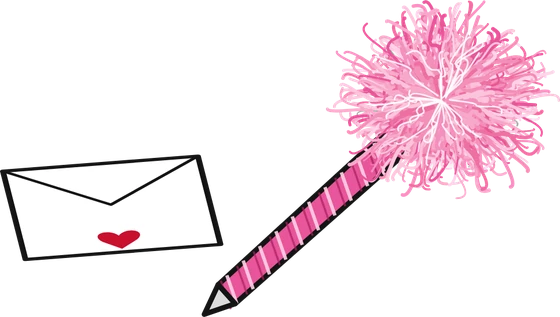
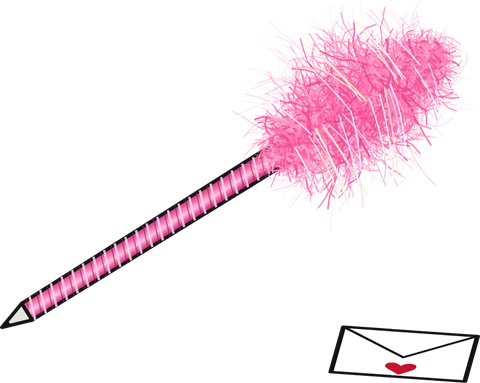
Smaller marabou pen; Spotify loads on request; privacy page
Claude-Session: https://claude.ai/code/session_01H8mUHYYn5LXshRq5LgGWXu

Changed region(s): [[0.0, 0.0, 1.0, 1.0], [0.6875, 0.8517, 1.0, 1.0], [0.0625, 0.5678, 0.1562, 0.6246]]

diff --git a/privacy.html b/privacy.html
@@ -1,0 +1,74 @@
+<!doctype html><html lang="en"><head><meta charset="utf-8"><meta name="viewport" content="width=device-width,initial-scale=1,viewport-fit=cover">
+<title>Privacy · Raissa Camargo</title>
+<meta name="description" content="How raissacamargo.com handles your information: no tracking cookies, privacy-friendly stats, and your rights under the LGPD and GDPR.">
+<link rel="canonical" href="https://raissacamargo.com/privacy.html">
+<meta property="og:type" content="website"><meta property="og:site_name" content="Raissa Camargo">
+<meta property="og:title" content="Privacy · Raissa Camargo"><meta property="og:description" content="How raissacamargo.com handles your information: no tracking cookies, privacy-friendly stats, and your rights under the LGPD and GDPR.">
+<meta property="og:url" content="https://raissacamargo.com/privacy.html"><meta property="og:image" content="https://raissacamargo.com/share-card.jpg">
+<meta property="og:image:width" content="1200"><meta property="og:image:height" content="630">
+<meta name="twitter:card" content="summary_large_image"><meta name="twitter:image" content="https://raissacamargo.com/share-card.jpg"><meta name="author" content="Raissa Camargo">
+<meta name="theme-color" content="#fde2ec">
+<link rel="icon" href="/favicon.ico" sizes="48x48"><link rel="icon" href="/favicon-32.png" type="image/png" sizes="32x32"><link rel="apple-touch-icon" href="/apple-touch-icon.png"><link rel="manifest" href="/site.webmanifest"><script defer src="https://cloud.umami.is/script.js" data-website-id="050e5cb9-ac41-4cd0-b8dd-d56ffa66f563" data-domains="raissacamargo.com,www.raissacamargo.com"></script><script type="application/ld+json">{"@context": "https://schema.org", "@type": "WebPage", "url": "https://raissacamargo.com/privacy.html", "author": {"@type": "Person", "name": "Raissa Camargo", "url": "https://raissacamargo.com/"}, "isPartOf": {"@type": "WebSite", "@id": "https://raissacamargo.com/#site"}}</script>
+<link rel="preconnect" href="https://fonts.googleapis.com">
+<link rel="stylesheet" href="https://fonts.googleapis.com/css2?family=Averia+Serif+Libre:ital,wght@0,400;0,700;1,400&display=swap">
+<style>
+/* A plain-spoken privacy note on a white sheet taped to the pink zine paper. */
+:root{--ink:#141414;--zine:#fde2ec;--hot:#c8102e;--muted:#5a4a50;--head:"Averia Serif Libre",Georgia,serif;color-scheme:light}
+*{box-sizing:border-box}
+html{background:var(--zine)}
+body{margin:0;min-height:100vh;color:var(--ink);font-family:var(--head);background:var(--zine);
+  padding:calc(24px + env(safe-area-inset-top,0px)) max(16px,env(safe-area-inset-right,0px)) calc(64px + env(safe-area-inset-bottom,0px)) max(16px,env(safe-area-inset-left,0px))}
+body::after{content:"";position:fixed;inset:0;z-index:0;pointer-events:none;background:url(img/texture-paper.webp) center/cover;opacity:.55;mix-blend-mode:multiply}
+.wrap{position:relative;z-index:1;max-width:720px;margin:0 auto}
+a{color:var(--hot);text-decoration-thickness:1.5px;text-underline-offset:2px}
+:focus-visible{outline:3px dashed var(--hot);outline-offset:3px}
+.top{margin-bottom:26px}
+.back{font-size:15px;color:#fff;background:var(--ink);padding:8px 16px 6px;text-decoration:none;transform:rotate(-1.5deg);box-shadow:3px 3px 0 var(--hot);display:inline-block}
+.back:hover{background:var(--hot);box-shadow:3px 3px 0 var(--ink)}
+.sheet{position:relative;background:#fff;padding:36px clamp(20px,5vw,48px) 30px;box-shadow:6px 8px 0 rgba(20,20,20,.16)}
+.sheet::before{content:"";position:absolute;top:-13px;left:50%;width:120px;height:26px;margin-left:-60px;background:rgba(185,210,236,.9);transform:rotate(-2deg)}
+h1{margin:0 0 6px;font-size:clamp(28px,4.4vw,38px);line-height:1.15;text-wrap:balance}
+.upd{margin:0 0 22px;font-size:13px;font-style:italic;color:var(--muted)}
+.lede{font-size:17px;line-height:1.55;margin:0 0 8px}
+h2{font-size:19px;margin:30px 0 8px;display:inline-block;background:var(--ink);color:#fff;padding:5px 12px 3px;transform:rotate(-1deg)}
+p,li{font-size:15.5px;line-height:1.6;max-width:62ch}
+.credit{max-width:none!important;position:relative;z-index:1}
+ul{padding-left:1.2em;margin:8px 0}
+li{margin:0 0 6px}
+li b{font-weight:700}
+.box{background:var(--zine);padding:14px 18px;margin-top:10px}
+@media (prefers-reduced-motion:reduce){h2,.back,.sheet::before{transform:none}}
+</style></head>
+<body><div class="wrap">
+<nav class="top"><a class="back" href="index.html">&larr; back to my room</a></nav>
+<article class="sheet">
+<h1>privacy, in plain words</h1>
+<p class="upd">last updated 17 november 2026</p>
+<p class="lede">this is my personal portfolio. i don&rsquo;t sell anything about you, i don&rsquo;t run ads, and there are no tracking cookies. here&rsquo;s exactly what happens with your information when you visit.</p>
+
+<h2>who&rsquo;s responsible</h2>
+<p>me, Raissa Camargo (Rai), a freelance graphic designer based in São Paulo, Brazil, also working as Someday Graphics. you can reach me any time at <a data-umami-event="email click" href="mailto:rai@raissacamargo.com">rai@raissacamargo.com</a>.</p>
+
+<h2>what i collect, and why</h2>
+<ul>
+  <li><b>when you use the hire form:</b> your name, email and whatever you tell me about your project. it&rsquo;s sent to my inbox through a form service called Web3Forms, so i can reply and talk about working together. i keep these emails as long as we&rsquo;re in touch or working on a project, and for my business records after that.</li>
+  <li><b>when you sign the guestbook:</b> the drawing you make, the name you give and your note. they&rsquo;re stored with Supabase, and i get an email letting me know. nothing appears on the site until i approve it; if i do, your drawing, name and note are shown publicly on the fridge. ones i don&rsquo;t approve are deleted.</li>
+  <li><b>visitor statistics:</b> i use Umami, a privacy-friendly analytics tool, to see things like which pages are visited, roughly which country visitors are in, what device or browser they use and which site sent them here. it doesn&rsquo;t use cookies, doesn&rsquo;t follow you across other websites and doesn&rsquo;t tell me who you are. the data is stored in the EU.</li>
+</ul>
+
+<h2>cookies &amp; storage</h2>
+<p>this site doesn&rsquo;t set any tracking or advertising cookies, so there&rsquo;s no cookie banner. your browser does keep a couple of tiny notes just so the site works (like which gallery tab you came from). they never leave your device.</p>
+<p>a few things load from other services when you use them:</p>
+<ul>
+  <li><b>my playlist</b> only loads Spotify when you press &ldquo;load the spotify player&rdquo;. Spotify may then set its own cookies.</li>
+  <li><b>videos</b> use YouTube&rsquo;s privacy-enhanced mode, which doesn&rsquo;t set cookies until you press play.</li>
+  <li><b>the fonts</b> come from Google Fonts, which means Google receives your IP address when the page loads.</li>
+  <li><b>the site is hosted on GitHub Pages</b>, which may log IP addresses for security.</li>
+</ul>
+
+<h2>your rights</h2>
+<p>under Brazil&rsquo;s LGPD, and the GDPR if you&rsquo;re in the UK or EU, you can ask me to see, correct or delete anything i hold about you, including taking your drawing off the fridge. just email <a data-umami-event="email click" href="mailto:rai@raissacamargo.com">rai@raissacamargo.com</a> and i&rsquo;ll sort it out as soon as i can. you can also complain to your local data protection authority (in Brazil, that&rsquo;s the ANPD).</p>
+
+<div class="box"><p style="margin:0">i never sell or share your details for marketing, and you won&rsquo;t be added to any mailing list. &#9825;</p></div>
+</article>
+</div><p class="credit" style="text-align:center;font-size:12px;letter-spacing:.04em;opacity:.6;margin:40px 0 28px;padding:0 16px">designed by raíssa camargo © 2026 · <a href="privacy.html" style="color:inherit">privacy</a></p><style>img,video{-webkit-user-drag:none;user-select:none;-webkit-user-select:none;-webkit-touch-callout:none}</style><script>(function(){var A="img,video,canvas,picture,figure,.pic,.fpic,.th,.poster,#scene,#lb";function no(e){if(e.target.closest&&e.target.closest(A))e.preventDefault()}document.addEventListener("contextmenu",no);document.addEventListener("dragstart",no)})()</script></body></html>

diff --git a/index.html b/index.html
@@ -265,11 +265,15 @@ body.night #moonGlow{--g:228,236,255;--f:.42;mix-blend-mode:screen;animation:moo
 #quick a.h{background:var(--ink);color:#fff;box-shadow:calc(var(--u)*3) calc(var(--u)*3) 0 var(--hot);transform:rotate(1.2deg)}
 #quick a:hover,#quick a:focus-visible{background:var(--hot);color:#fff}
 .obj:focus-visible,.spot:focus-visible{outline:calc(var(--u)*4) dashed var(--hot);outline-offset:calc(var(--u)*6)}
+#credit a{color:inherit;pointer-events:auto}
+.loadsp{font-family:var(--type);font-size:15px;color:#fff;background:#1db954;border:0;border-radius:999px;padding:9px 18px 8px;cursor:pointer;box-shadow:3px 3px 0 rgba(20,20,20,.25)}
+.loadsp:hover{background:#141414}
+.spnote{margin:6px 0 0;font-size:12px;font-style:italic;opacity:.7}
 </style>
 
 <div id="loading">opening the door&hellip;</div>
 <h1 class="sr">Raissa Camargo, freelance graphic designer for musicians and creatives</h1>
-<p id="credit">designed by ra&iacute;ssa camargo &copy; 2026</p>
+<p id="credit">designed by ra&iacute;ssa camargo &copy; 2026 &middot; <a href="privacy.html">privacy</a></p>
 <div id="viewport">
   <div id="scene">
     <div id="sky" class="abs" aria-hidden="true"><div class="stars"></div></div>
@@ -323,7 +327,7 @@ const OBJS=[
   {id:'selina',sec:'meow',label:'Selina',box:[1163,1054,1456,1203]},
   {id:'london',sec:'meow',label:'London',box:[755,1518,1091,1713]},
   {id:'moon',sec:'night',box:[1125,398,1243,528],still:true},
-  {id:'guestbook',sec:'guestbook',label:'sign my guestbook',box:[1170,1606,1420,1748]},
+  {id:'guestbook',sec:'guestbook',label:'sign my guestbook',box:[1230,1630,1382,1752]},
   {id:'logo',sec:'home',label:'Home',box:[51,289,596,552]},
 ];
 // areas still inside the background drawing (until they get their own layers)
@@ -517,8 +521,14 @@ function openWin(sec){if(sec==='guestbook'){location.href='paintbook.html';retur
   ransom(document.getElementById('wt'),s.label);document.getElementById('wp').textContent=s.body;
   const wl=document.getElementById('wlinks');wl.replaceChildren(...(s.links||[]).map(([t,u])=>{const a=document.createElement('a');a.href=u;a.target='_blank';a.rel='noopener';a.textContent=t;return a}));
   {const old=document.getElementById('wembed');if(old)old.remove();
-   if(s.embed&&/(^|\.)raissacamargo\.com$|(^|\.)somedaygraphics\.com$|netlify\.app$/.test(location.hostname)){const f=document.createElement('iframe');f.id='wembed';f.src=s.embed;f.title=s.label;f.allow='autoplay; clipboard-write; encrypted-media; fullscreen; picture-in-picture';
-     f.style.cssText='width:100%;height:152px;border:0;border-radius:12px;margin-top:14px;display:block';wl.parentNode.insertBefore(f,wl)}}
+   if(s.embed&&/(^|\.)raissacamargo\.com$|(^|\.)somedaygraphics\.com$|github\.io$/.test(location.hostname)){
+     // Spotify only loads when the visitor asks for it (it can set its own cookies)
+     const box=document.createElement('div');box.id='wembed';box.style.cssText='margin-top:14px';
+     const btn=document.createElement('button');btn.type='button';btn.className='loadsp';btn.textContent='▶ load the spotify player';
+     const small=document.createElement('p');small.className='spnote';small.textContent='this loads spotify, which may set its own cookies.';
+     btn.onclick=()=>{const f=document.createElement('iframe');f.src=s.embed;f.title=s.label;f.allow='autoplay; clipboard-write; encrypted-media; fullscreen; picture-in-picture';
+       f.style.cssText='width:100%;height:152px;border:0;border-radius:12px;display:block';box.replaceChildren(f);f.focus()};
+     box.append(btn,small);wl.parentNode.insertBefore(box,wl)}}
   const wi=document.getElementById('wimg');if(s.img){wi.src=s.img;wi.alt=s.label+' cover';wi.hidden=false}else wi.hidden=true;
   win.hidden=false;win.querySelector('.btn').focus()}
 function closeWin(){win.hidden=true;scene.style.transform='';scene.classList.remove('zoom');if(lastFocus&&lastFocus.focus)lastFocus.focus()}
@@ -542,7 +552,7 @@ menu.appendChild(mi('hire rai',()=>openWin('contact'),'hire'));
    b.onclick=()=>{T(night?'night mode':'day mode');if(document.body.classList.contains('night')!==night)toggleNight();syncModes()};return b};
  m.appendChild(mk(false,'day','<svg viewBox="0 0 24 24" aria-hidden="true"><circle cx="12" cy="12" r="4.2" fill="none" stroke="currentColor" stroke-width="1.8"/><g stroke="currentColor" stroke-width="1.8" stroke-linecap="round"><path d="M12 2.5v2.6M12 18.9v2.6M2.5 12h2.6M18.9 12h2.6M5.3 5.3l1.8 1.8M16.9 16.9l1.8 1.8M5.3 18.7l1.8-1.8M16.9 7.1l1.8-1.8"/></g></svg>'));
  m.appendChild(mk(true,'night','<svg viewBox="0 0 24 24" aria-hidden="true"><path d="M19.5 14.6A7.8 7.8 0 0 1 9.4 4.5a7.8 7.8 0 1 0 10.1 10.1z" fill="none" stroke="currentColor" stroke-width="1.8" stroke-linejoin="round"/></svg>'));
- menu.appendChild(m);const cr=document.createElement('p');cr.className='mcredit';cr.textContent='designed by ra\u00edssa camargo \u00a9 2026';menu.appendChild(cr)}
+ menu.appendChild(m);const cr=document.createElement('p');cr.className='mcredit';cr.innerHTML='designed by ra\u00edssa camargo \u00a9 2026 \u00b7 <a href="privacy.html" style="color:inherit">privacy</a>';menu.appendChild(cr)}
 function syncModes(){const n=document.body.classList.contains('night');menu.querySelectorAll('.mode').forEach((b,i)=>b.setAttribute('aria-pressed',String(i===1?n:!n)))}
 syncModes();new MutationObserver(syncModes).observe(document.body,{attributes:true,attributeFilter:['class']});
 function toggleMenu(open){open=open??menu.hidden;menu.hidden=!open;menuBtn.setAttribute('aria-expanded',open);

diff --git a/hire.html b/hire.html
@@ -123,7 +123,7 @@ button.go[disabled]{opacity:.6;cursor:wait}
         <div class="row"><label class="f"><span>deadline</span><input name="deadline" placeholder="e.g. before the march tour"></label><label class="f"><span>how did you find me?</span><input name="found" placeholder="instagram, a friend, a poster on a wall…"></label></div>
 
         <div class="send"><button class="go" type="submit" id="go">send it ♥</button><p class="err" id="err" role="alert"></p></div>
-        <p class="privacy">I&rsquo;ll only use your details to reply about your project. No mailing lists, never shared.</p>
+        <p class="privacy">I&rsquo;ll only use your details to reply about your project. No mailing lists, never shared. <a href="privacy.html" style="color:inherit">privacy</a></p>
       </form>
     </div>
   </div>
@@ -156,4 +156,4 @@ form.addEventListener('submit',async e=>{e.preventDefault();err.textContent='';
     document.getElementById('sheet').innerHTML=`<div class="thanks" role="status"><span class="big">got it${name?', '+name.replace(/[<>&"]/g,''):''}!</span><p>Your message is on its way to my inbox. I'll write back from rai@raissacamargo.com.</p>${LIVE?'':'<small>(this is the preview, so nothing was actually sent. the form goes live with the site.)</small>'}</div>`;
   }catch(x){go.disabled=false;go.textContent='send it ♥';err.innerHTML='Something went wrong. Email me at <a data-umami-event="email click" href="mailto:rai@raissacamargo.com">rai@raissacamargo.com</a> instead.'}
 });
-</script><p class="credit" style="text-align:center;font-size:12px;letter-spacing:.04em;opacity:.6;margin:40px 0 28px;padding:0 16px">designed by raíssa camargo © 2026</p><style>img,video{-webkit-user-drag:none;user-select:none;-webkit-user-select:none;-webkit-touch-callout:none}</style><script>(function(){var A="img,video,canvas,picture,figure,.pic,.fpic,.th,.poster,#scene,#lb";function no(e){if(e.target.closest&&e.target.closest(A))e.preventDefault()}document.addEventListener("contextmenu",no);document.addEventListener("dragstart",no)})()</script></body></html>
+</script><p class="credit" style="text-align:center;font-size:12px;letter-spacing:.04em;opacity:.6;margin:40px 0 28px;padding:0 16px">designed by raíssa camargo © 2026 · <a href="privacy.html" style="color:inherit">privacy</a></p><style>img,video{-webkit-user-drag:none;user-select:none;-webkit-user-select:none;-webkit-touch-callout:none}</style><script>(function(){var A="img,video,canvas,picture,figure,.pic,.fpic,.th,.poster,#scene,#lb";function no(e){if(e.target.closest&&e.target.closest(A))e.preventDefault()}document.addEventListener("contextmenu",no);document.addEventListener("dragstart",no)})()</script></body></html>

diff --git a/paintbook.html b/paintbook.html
@@ -157,7 +157,7 @@ input:focus{outline:none;border-color:var(--hot)}
     <p class="hp" aria-hidden="true" style="position:absolute;left:-9999px"><label>Leave this empty: <input name="bot-field" tabindex="-1" autocomplete="off"></label></p>
     <button class="go" id="go" type="submit">send my drawing &#9825;</button>
     <p class="err" id="err" role="alert"></p>
-    <p class="note">drawings go on the fridge once i&rsquo;ve seen them. your name, note and drawing will be public; nothing else is shown.</p>
+    <p class="note">drawings go on the fridge once i&rsquo;ve seen them. your name, note and drawing will be public; nothing else is shown. <a href="privacy.html" style="color:inherit">privacy</a></p>
   </form>
   <div class="thanks" id="thanks" hidden tabindex="-1"><b>thank you!! &#9825;</b>your drawing is on its way to me. keep an eye on the fridge!<br><button type="button" id="again">draw another one</button></div>
 </section>
@@ -265,4 +265,4 @@ $('#again').onclick=()=>{snap();blank();dirty=false;f.reset();f.hidden=false;$('
       fg.append(im,cap);W.appendChild(fg)})
   }catch(e){W.innerHTML='<p class="empty">couldn’t open the fridge right now. try again later!</p>'}})();
 </script>
-<p class="credit" style="text-align:center;font-size:12px;letter-spacing:.04em;opacity:.6;margin:40px 0 28px;padding:0 16px">designed by raíssa camargo © 2026</p><style>img,video{-webkit-user-drag:none;user-select:none;-webkit-user-select:none;-webkit-touch-callout:none}</style><script>(function(){var A="img,video,canvas,picture,figure,.pic,.fpic,.th,.poster,#scene,#lb";function no(e){if(e.target.closest&&e.target.closest(A))e.preventDefault()}document.addEventListener("contextmenu",no);document.addEventListener("dragstart",no)})()</script></body></html>
+<p class="credit" style="text-align:center;font-size:12px;letter-spacing:.04em;opacity:.6;margin:40px 0 28px;padding:0 16px">designed by raíssa camargo © 2026 · <a href="privacy.html" style="color:inherit">privacy</a></p><style>img,video{-webkit-user-drag:none;user-select:none;-webkit-user-select:none;-webkit-touch-callout:none}</style><script>(function(){var A="img,video,canvas,picture,figure,.pic,.fpic,.th,.poster,#scene,#lb";function no(e){if(e.target.closest&&e.target.closest(A))e.preventDefault()}document.addEventListener("contextmenu",no);document.addEventListener("dragstart",no)})()</script></body></html>

diff --git a/ben-barnes-promo-reels.html b/ben-barnes-promo-reels.html
@@ -274,4 +274,4 @@ lb.querySelector('.prev').onclick=()=>show(cur-1);lb.querySelector('.next').oncl
 lb.addEventListener('click',e=>{if(e.target===lb||e.target.tagName==='FIGURE')close()});
 addEventListener('keydown',e=>{if(lb.hidden)return;if(e.key==='Tab'){const f=[...lb.querySelectorAll('button')];const i=f.indexOf(document.activeElement);e.preventDefault();f[(i+(e.shiftKey?-1:1)+f.length)%f.length].focus();return}if(e.key==='Escape')close();if(e.key==='ArrowRight')show(cur+1);if(e.key==='ArrowLeft')show(cur-1)});
 let sx=null;lb.addEventListener('touchstart',e=>{sx=e.touches[0].clientX},{passive:true});lb.addEventListener('touchend',e=>{if(sx===null)return;const dx=e.changedTouches[0].clientX-sx;if(Math.abs(dx)>50)show(cur+(dx<0?1:-1));sx=null});
-</script><p class="credit" style="text-align:center;font-size:12px;letter-spacing:.04em;opacity:.6;margin:40px 0 28px;padding:0 16px">designed by raíssa camargo © 2026</p><style>img,video{-webkit-user-drag:none;user-select:none;-webkit-user-select:none;-webkit-touch-callout:none}</style><script>(function(){var A="img,video,canvas,picture,figure,.pic,.fpic,.th,.poster,#scene,#lb";function no(e){if(e.target.closest&&e.target.closest(A))e.preventDefault()}document.addEventListener("contextmenu",no);document.addEventListener("dragstart",no)})()</script></body></html>
+</script><p class="credit" style="text-align:center;font-size:12px;letter-spacing:.04em;opacity:.6;margin:40px 0 28px;padding:0 16px">designed by raíssa camargo © 2026 · <a href="privacy.html" style="color:inherit">privacy</a></p><style>img,video{-webkit-user-drag:none;user-select:none;-webkit-user-select:none;-webkit-touch-callout:none}</style><script>(function(){var A="img,video,canvas,picture,figure,.pic,.fpic,.th,.poster,#scene,#lb";function no(e){if(e.target.closest&&e.target.closest(A))e.preventDefault()}document.addEventListener("contextmenu",no);document.addEventListener("dragstart",no)})()</script></body></html>

diff --git a/ben-barnes-where-the-light-gets-in-deluxe.html b/ben-barnes-where-the-light-gets-in-deluxe.html
@@ -274,4 +274,4 @@ lb.querySelector('.prev').onclick=()=>show(cur-1);lb.querySelector('.next').oncl
 lb.addEventListener('click',e=>{if(e.target===lb||e.target.tagName==='FIGURE')close()});
 addEventListener('keydown',e=>{if(lb.hidden)return;if(e.key==='Tab'){const f=[...lb.querySelectorAll('button')];const i=f.indexOf(document.activeElement);e.preventDefault();f[(i+(e.shiftKey?-1:1)+f.length)%f.length].focus();return}if(e.key==='Escape')close();if(e.key==='ArrowRight')show(cur+1);if(e.key==='ArrowLeft')show(cur-1)});
 let sx=null;lb.addEventListener('touchstart',e=>{sx=e.touches[0].clientX},{passive:true});lb.addEventListener('touchend',e=>{if(sx===null)return;const dx=e.changedTouches[0].clientX-sx;if(Math.abs(dx)>50)show(cur+(dx<0?1:-1));sx=null});
-</script><p class="credit" style="text-align:center;font-size:12px;letter-spacing:.04em;opacity:.6;margin:40px 0 28px;padding:0 16px">designed by raíssa camargo © 2026</p><style>img,video{-webkit-user-drag:none;user-select:none;-webkit-user-select:none;-webkit-touch-callout:none}</style><script>(function(){var A="img,video,canvas,picture,figure,.pic,.fpic,.th,.poster,#scene,#lb";function no(e){if(e.target.closest&&e.target.closest(A))e.preventDefault()}document.addEventListener("contextmenu",no);document.addEventListener("dragstart",no)})()</script></body></html>
+</script><p class="credit" style="text-align:center;font-size:12px;letter-spacing:.04em;opacity:.6;margin:40px 0 28px;padding:0 16px">designed by raíssa camargo © 2026 · <a href="privacy.html" style="color:inherit">privacy</a></p><style>img,video{-webkit-user-drag:none;user-select:none;-webkit-user-select:none;-webkit-touch-callout:none}</style><script>(function(){var A="img,video,canvas,picture,figure,.pic,.fpic,.th,.poster,#scene,#lb";function no(e){if(e.target.closest&&e.target.closest(A))e.preventDefault()}document.addEventListener("contextmenu",no);document.addEventListener("dragstart",no)})()</script></body></html>

diff --git a/ben-barnes-where-the-light-gets-in-tour-posters.html b/ben-barnes-where-the-light-gets-in-tour-posters.html
@@ -274,4 +274,4 @@ lb.querySelector('.prev').onclick=()=>show(cur-1);lb.querySelector('.next').oncl
 lb.addEventListener('click',e=>{if(e.target===lb||e.target.tagName==='FIGURE')close()});
 addEventListener('keydown',e=>{if(lb.hidden)return;if(e.key==='Tab'){const f=[...lb.querySelectorAll('button')];const i=f.indexOf(document.activeElement);e.preventDefault();f[(i+(e.shiftKey?-1:1)+f.length)%f.length].focus();return}if(e.key==='Escape')close();if(e.key==='ArrowRight')show(cur+1);if(e.key==='ArrowLeft')show(cur-1)});
 let sx=null;lb.addEventListener('touchstart',e=>{sx=e.touches[0].clientX},{passive:true});lb.addEventListener('touchend',e=>{if(sx===null)return;const dx=e.changedTouches[0].clientX-sx;if(Math.abs(dx)>50)show(cur+(dx<0?1:-1));sx=null});
-</script><p class="credit" style="text-align:center;font-size:12px;letter-spacing:.04em;opacity:.6;margin:40px 0 28px;padding:0 16px">designed by raíssa camargo © 2026</p><style>img,video{-webkit-user-drag:none;user-select:none;-webkit-user-select:none;-webkit-touch-callout:none}</style><script>(function(){var A="img,video,canvas,picture,figure,.pic,.fpic,.th,.poster,#scene,#lb";function no(e){if(e.target.closest&&e.target.closest(A))e.preventDefault()}document.addEventListener("contextmenu",no);document.addEventListener("dragstart",no)})()</script></body></html>
+</script><p class="credit" style="text-align:center;font-size:12px;letter-spacing:.04em;opacity:.6;margin:40px 0 28px;padding:0 16px">designed by raíssa camargo © 2026 · <a href="privacy.html" style="color:inherit">privacy</a></p><style>img,video{-webkit-user-drag:none;user-select:none;-webkit-user-select:none;-webkit-touch-callout:none}</style><script>(function(){var A="img,video,canvas,picture,figure,.pic,.fpic,.th,.poster,#scene,#lb";function no(e){if(e.target.closest&&e.target.closest(A))e.preventDefault()}document.addEventListener("contextmenu",no);document.addEventListener("dragstart",no)})()</script></body></html>

diff --git a/ben-barnes-wrapped-up-in-you-7-vinyl.html b/ben-barnes-wrapped-up-in-you-7-vinyl.html
@@ -274,4 +274,4 @@ lb.querySelector('.prev').onclick=()=>show(cur-1);lb.querySelector('.next').oncl
 lb.addEventListener('click',e=>{if(e.target===lb||e.target.tagName==='FIGURE')close()});
 addEventListener('keydown',e=>{if(lb.hidden)return;if(e.key==='Tab'){const f=[...lb.querySelectorAll('button')];const i=f.indexOf(document.activeElement);e.preventDefault();f[(i+(e.shiftKey?-1:1)+f.length)%f.length].focus();return}if(e.key==='Escape')close();if(e.key==='ArrowRight')show(cur+1);if(e.key==='ArrowLeft')show(cur-1)});
 let sx=null;lb.addEventListener('touchstart',e=>{sx=e.touches[0].clientX},{passive:true});lb.addEventListener('touchend',e=>{if(sx===null)return;const dx=e.changedTouches[0].clientX-sx;if(Math.abs(dx)>50)show(cur+(dx<0?1:-1));sx=null});
-</script><p class="credit" style="text-align:center;font-size:12px;letter-spacing:.04em;opacity:.6;margin:40px 0 28px;padding:0 16px">designed by raíssa camargo © 2026</p><style>img,video{-webkit-user-drag:none;user-select:none;-webkit-user-select:none;-webkit-touch-callout:none}</style><script>(function(){var A="img,video,canvas,picture,figure,.pic,.fpic,.th,.poster,#scene,#lb";function no(e){if(e.target.closest&&e.target.closest(A))e.preventDefault()}document.addEventListener("contextmenu",no);document.addEventListener("dragstart",no)})()</script></body></html>
+</script><p class="credit" style="text-align:center;font-size:12px;letter-spacing:.04em;opacity:.6;margin:40px 0 28px;padding:0 16px">designed by raíssa camargo © 2026 · <a href="privacy.html" style="color:inherit">privacy</a></p><style>img,video{-webkit-user-drag:none;user-select:none;-webkit-user-select:none;-webkit-touch-callout:none}</style><script>(function(){var A="img,video,canvas,picture,figure,.pic,.fpic,.th,.poster,#scene,#lb";function no(e){if(e.target.closest&&e.target.closest(A))e.preventDefault()}document.addEventListener("contextmenu",no);document.addEventListener("dragstart",no)})()</script></body></html>

diff --git a/brandon-university-crash-third-year-drum-recital-poster.html b/brandon-university-crash-third-year-drum-recital-poster.html
@@ -274,4 +274,4 @@ lb.querySelector('.prev').onclick=()=>show(cur-1);lb.querySelector('.next').oncl
 lb.addEventListener('click',e=>{if(e.target===lb||e.target.tagName==='FIGURE')close()});
 addEventListener('keydown',e=>{if(lb.hidden)return;if(e.key==='Tab'){const f=[...lb.querySelectorAll('button')];const i=f.indexOf(document.activeElement);e.preventDefault();f[(i+(e.shiftKey?-1:1)+f.length)%f.length].focus();return}if(e.key==='Escape')close();if(e.key==='ArrowRight')show(cur+1);if(e.key==='ArrowLeft')show(cur-1)});
 let sx=null;lb.addEventListener('touchstart',e=>{sx=e.touches[0].clientX},{passive:true});lb.addEventListener('touchend',e=>{if(sx===null)return;const dx=e.changedTouches[0].clientX-sx;if(Math.abs(dx)>50)show(cur+(dx<0?1:-1));sx=null});
-</script><p class="credit" style="text-align:center;font-size:12px;letter-spacing:.04em;opacity:.6;margin:40px 0 28px;padding:0 16px">designed by raíssa camargo © 2026</p><style>img,video{-webkit-user-drag:none;user-select:none;-webkit-user-select:none;-webkit-touch-callout:none}</style><script>(function(){var A="img,video,canvas,picture,figure,.pic,.fpic,.th,.poster,#scene,#lb";function no(e){if(e.target.closest&&e.target.closest(A))e.preventDefault()}document.addEventListener("contextmenu",no);document.addEventListener("dragstart",no)})()</script></body></html>
+</script><p class="credit" style="text-align:center;font-size:12px;letter-spacing:.04em;opacity:.6;margin:40px 0 28px;padding:0 16px">designed by raíssa camargo © 2026 · <a href="privacy.html" style="color:inherit">privacy</a></p><style>img,video{-webkit-user-drag:none;user-select:none;-webkit-user-select:none;-webkit-touch-callout:none}</style><script>(function(){var A="img,video,canvas,picture,figure,.pic,.fpic,.th,.poster,#scene,#lb";function no(e){if(e.target.closest&&e.target.closest(A))e.preventDefault()}document.addEventListener("contextmenu",no);document.addEventListener("dragstart",no)})()</script></body></html>

diff --git a/elizabeth-wong-back-to-california-ep-poster.html b/elizabeth-wong-back-to-california-ep-poster.html
@@ -274,4 +274,4 @@ lb.querySelector('.prev').onclick=()=>show(cur-1);lb.querySelector('.next').oncl
 lb.addEventListener('click',e=>{if(e.target===lb||e.target.tagName==='FIGURE')close()});
 addEventListener('keydown',e=>{if(lb.hidden)return;if(e.key==='Tab'){const f=[...lb.querySelectorAll('button')];const i=f.indexOf(document.activeElement);e.preventDefault();f[(i+(e.shiftKey?-1:1)+f.length)%f.length].focus();return}if(e.key==='Escape')close();if(e.key==='ArrowRight')show(cur+1);if(e.key==='ArrowLeft')show(cur-1)});
 let sx=null;lb.addEventListener('touchstart',e=>{sx=e.touches[0].clientX},{passive:true});lb.addEventListener('touchend',e=>{if(sx===null)return;const dx=e.changedTouches[0].clientX-sx;if(Math.abs(dx)>50)show(cur+(dx<0?1:-1));sx=null});
-</script><p class="credit" style="text-align:center;font-size:12px;letter-spacing:.04em;opacity:.6;margin:40px 0 28px;padding:0 16px">designed by raíssa camargo © 2026</p><style>img,video{-webkit-user-drag:none;user-select:none;-webkit-user-select:none;-webkit-touch-callout:none}</style><script>(function(){var A="img,video,canvas,picture,figure,.pic,.fpic,.th,.poster,#scene,#lb";function no(e){if(e.target.closest&&e.target.closest(A))e.preventDefault()}document.addEventListener("contextmenu",no);document.addEventListener("dragstart",no)})()</script></body></html>
+</script><p class="credit" style="text-align:center;font-size:12px;letter-spacing:.04em;opacity:.6;margin:40px 0 28px;padding:0 16px">designed by raíssa camargo © 2026 · <a href="privacy.html" style="color:inherit">privacy</a></p><style>img,video{-webkit-user-drag:none;user-select:none;-webkit-user-select:none;-webkit-touch-callout:none}</style><script>(function(){var A="img,video,canvas,picture,figure,.pic,.fpic,.th,.poster,#scene,#lb";function no(e){if(e.target.closest&&e.target.closest(A))e.preventDefault()}document.addEventListener("contextmenu",no);document.addEventListener("dragstart",no)})()</script></body></html>

diff --git a/elizabeth-wong-zoom-show-flyer.html b/elizabeth-wong-zoom-show-flyer.html
@@ -274,4 +274,4 @@ lb.querySelector('.prev').onclick=()=>show(cur-1);lb.querySelector('.next').oncl
 lb.addEventListener('click',e=>{if(e.target===lb||e.target.tagName==='FIGURE')close()});
 addEventListener('keydown',e=>{if(lb.hidden)return;if(e.key==='Tab'){const f=[...lb.querySelectorAll('button')];const i=f.indexOf(document.activeElement);e.preventDefault();f[(i+(e.shiftKey?-1:1)+f.length)%f.length].focus();return}if(e.key==='Escape')close();if(e.key==='ArrowRight')show(cur+1);if(e.key==='ArrowLeft')show(cur-1)});
 let sx=null;lb.addEventListener('touchstart',e=>{sx=e.touches[0].clientX},{passive:true});lb.addEventListener('touchend',e=>{if(sx===null)return;const dx=e.changedTouches[0].clientX-sx;if(Math.abs(dx)>50)show(cur+(dx<0?1:-1));sx=null});
-</script><p class="credit" style="text-align:center;font-size:12px;letter-spacing:.04em;opacity:.6;margin:40px 0 28px;padding:0 16px">designed by raíssa camargo © 2026</p><style>img,video{-webkit-user-drag:none;user-select:none;-webkit-user-select:none;-webkit-touch-callout:none}</style><script>(function(){var A="img,video,canvas,picture,figure,.pic,.fpic,.th,.poster,#scene,#lb";function no(e){if(e.target.closest&&e.target.closest(A))e.preventDefault()}document.addEventListener("contextmenu",no);document.addEventListener("dragstart",no)})()</script></body></html>
+</script><p class="credit" style="text-align:center;font-size:12px;letter-spacing:.04em;opacity:.6;margin:40px 0 28px;padding:0 16px">designed by raíssa camargo © 2026 · <a href="privacy.html" style="color:inherit">privacy</a></p><style>img,video{-webkit-user-drag:none;user-select:none;-webkit-user-select:none;-webkit-touch-callout:none}</style><script>(function(){var A="img,video,canvas,picture,figure,.pic,.fpic,.th,.poster,#scene,#lb";function no(e){if(e.target.closest&&e.target.closest(A))e.preventDefault()}document.addEventListener("contextmenu",no);document.addEventListener("dragstart",no)})()</script></body></html>

diff --git a/imogen-valentine-show-poster.html b/imogen-valentine-show-poster.html
@@ -274,4 +274,4 @@ lb.querySelector('.prev').onclick=()=>show(cur-1);lb.querySelector('.next').oncl
 lb.addEventListener('click',e=>{if(e.target===lb||e.target.tagName==='FIGURE')close()});
 addEventListener('keydown',e=>{if(lb.hidden)return;if(e.key==='Tab'){const f=[...lb.querySelectorAll('button')];const i=f.indexOf(document.activeElement);e.preventDefault();f[(i+(e.shiftKey?-1:1)+f.length)%f.length].focus();return}if(e.key==='Escape')close();if(e.key==='ArrowRight')show(cur+1);if(e.key==='ArrowLeft')show(cur-1)});
 let sx=null;lb.addEventListener('touchstart',e=>{sx=e.touches[0].clientX},{passive:true});lb.addEventListener('touchend',e=>{if(sx===null)return;const dx=e.changedTouches[0].clientX-sx;if(Math.abs(dx)>50)show(cur+(dx<0?1:-1));sx=null});
-</script><p class="credit" style="text-align:center;font-size:12px;letter-spacing:.04em;opacity:.6;margin:40px 0 28px;padding:0 16px">designed by raíssa camargo © 2026</p><style>img,video{-webkit-user-drag:none;user-select:none;-webkit-user-select:none;-webkit-touch-callout:none}</style><script>(function(){var A="img,video,canvas,picture,figure,.pic,.fpic,.th,.poster,#scene,#lb";function no(e){if(e.target.closest&&e.target.closest(A))e.preventDefault()}document.addEventListener("contextmenu",no);document.addEventListener("dragstart",no)})()</script></body></html>
+</script><p class="credit" style="text-align:center;font-size:12px;letter-spacing:.04em;opacity:.6;margin:40px 0 28px;padding:0 16px">designed by raíssa camargo © 2026 · <a href="privacy.html" style="color:inherit">privacy</a></p><style>img,video{-webkit-user-drag:none;user-select:none;-webkit-user-select:none;-webkit-touch-callout:none}</style><script>(function(){var A="img,video,canvas,picture,figure,.pic,.fpic,.th,.poster,#scene,#lb";function no(e){if(e.target.closest&&e.target.closest(A))e.preventDefault()}document.addEventListener("contextmenu",no);document.addEventListener("dragstart",no)})()</script></body></html>
